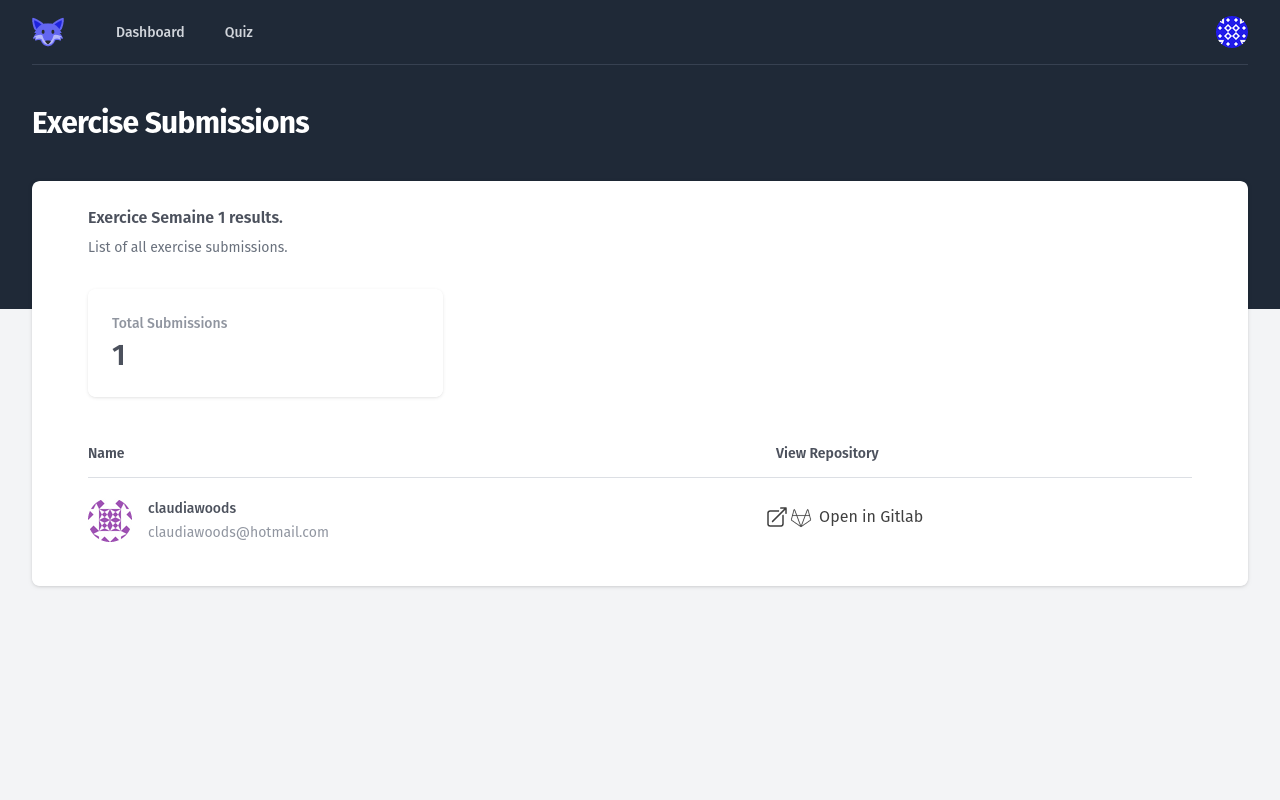
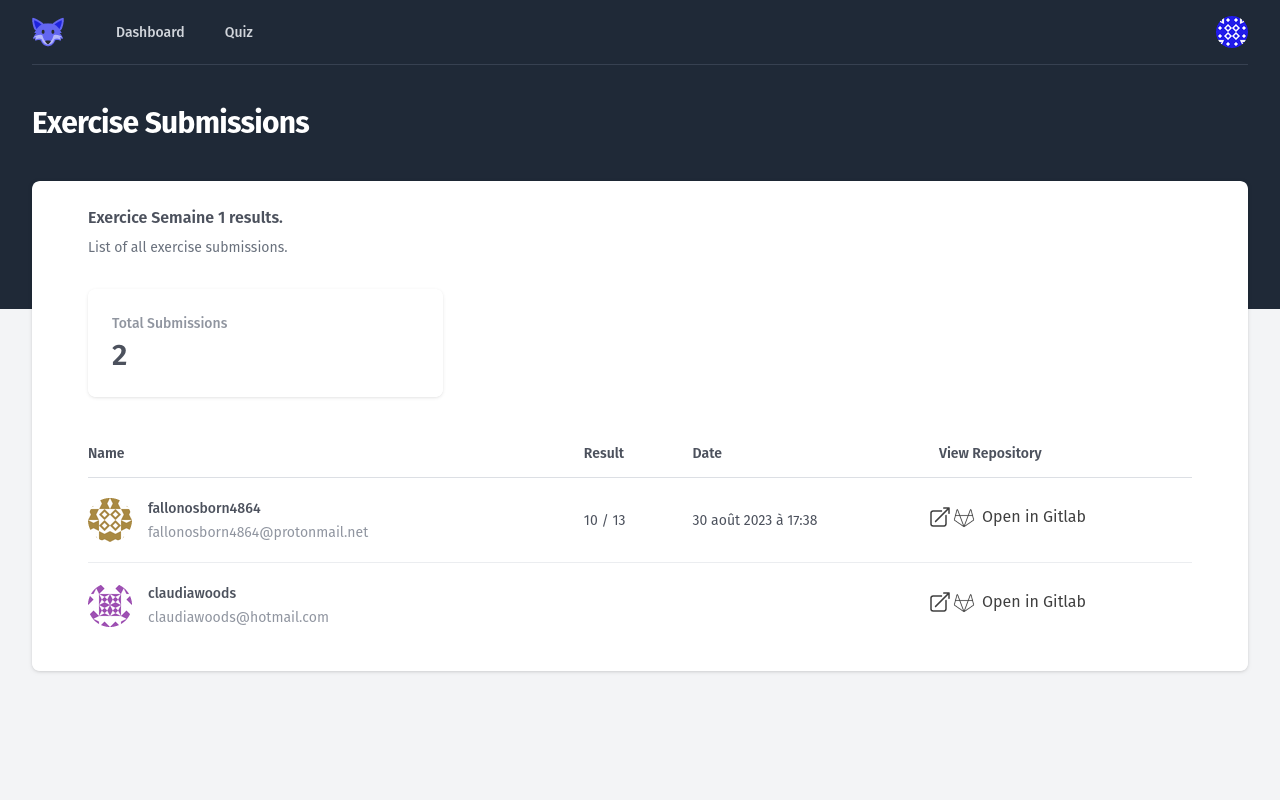
📝 : update documentation for student scores

diff --git a/src/main/docs/user-documentation/teacher/05-view-assignment-results.md b/src/main/docs/user-documentation/teacher/05-view-assignment-results.md
@@ -4,7 +4,7 @@ When clicking an _Assignment_ on the _Teacher Dashboard_, the _Teacher_ is redir
 
 The views are similar for the 2 types of _Assignments_, _Exercise_ or _Quiz_.
 
-## Exercise _Assignment_ submissions
+## _Exercise Assignment_ submissions
 
 <figure markdown>
   ![A Exercise Assignment submissions view](05-view-exercise-assignment.png){ style="border: solid 1px black" }
@@ -15,9 +15,11 @@ The view shows:
 
 * the total count of submissions by the _Students_
 * for each _Student_:
+    * the score of the _Student_ for the assignment
+    * the submission date of the assignment
     * the link to the GitLab project
 
-## Quiz _Assignment_ submissions
+## _Quiz Assignment_ submissions
 
 <figure markdown>
   ![A Quiz Assignment submissions view](05-view-quiz-assignment.png){ style="border: solid 1px black" }

diff --git a/src/main/docs/user-documentation/student/01-student-dashboard.md b/src/main/docs/user-documentation/student/01-student-dashboard.md
@@ -24,9 +24,9 @@ _Exercise Assignments_ show a link to open the associated GitLab project.
 
 _Quiz Assignments_ show a link to take the associated Quiz.
 
-When a Quiz score is present, it is also displayed on the Quiz card.
+When a Quiz, or Exercise has been submitted, the submission date and score is also displayed on the card.
 
 <figure markdown>
-  ![Student Dashboard with a Quiz Assignment Scored](01-student-dashboard-quiz-score.png){ style="border: solid 1px black" }
-  <figcaption>Student Dashboard with a Quiz Assignment Scored</figcaption>
+  ![Student Dashboard with a Quiz Assignment and Exercise Assignment Scored](01-student-dashboard-exercise-score.png){ style="border: solid 1px black" }
+  <figcaption>Student Dashboard with a Quiz Assignment and Exercise Assignment Scored</figcaption>
 </figure>
